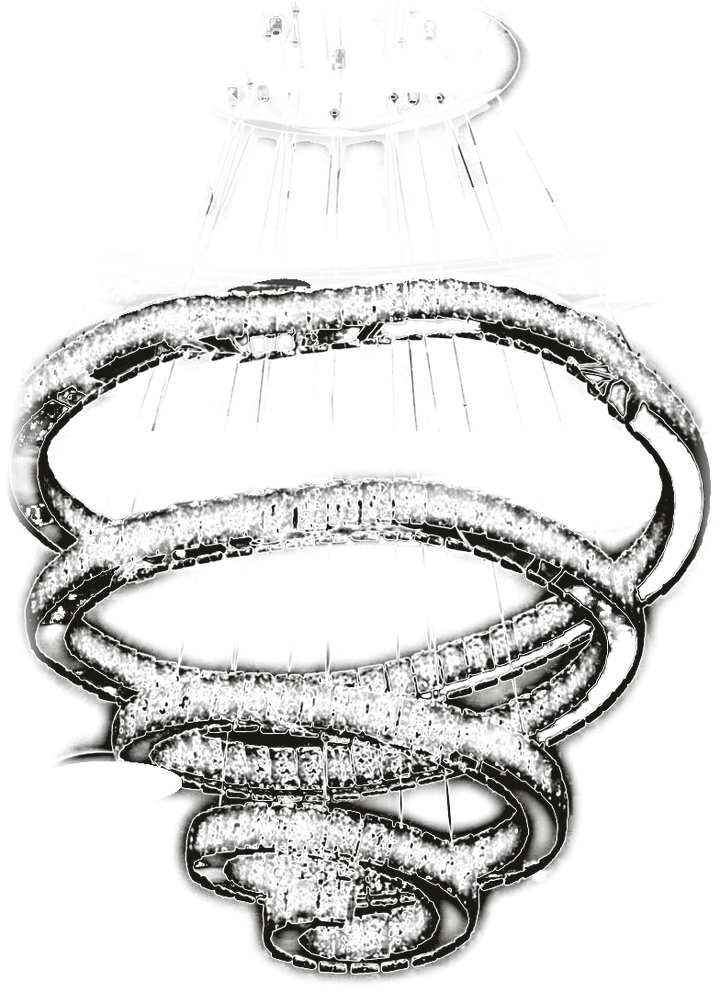
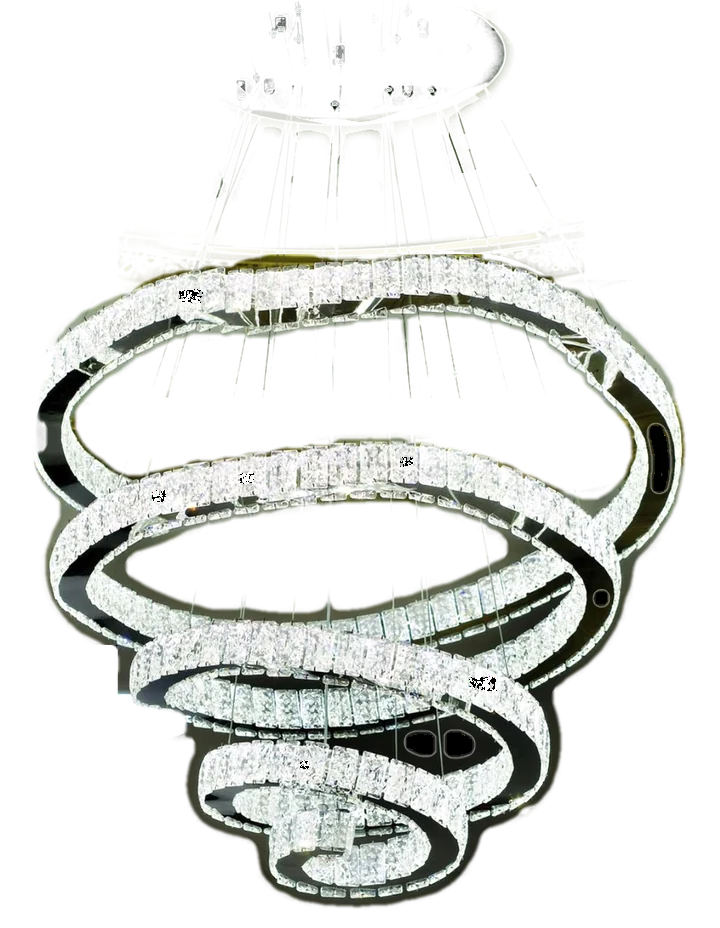
Kronleuchter realistisch: echtes Foto freigestellt, violetter Schein, Raum dezent dahinter

diff --git a/style.css b/style.css
@@ -652,26 +652,37 @@ ul,ol{ list-style:none }
 .cta__row{ display:flex; flex-wrap:wrap; gap:.7rem; margin-top:2.25rem }
 
 /* Kronleuchter — das Stück, das man im Salon zuerst sieht.
-   Aus dem Foto freigestellt (nur die Kristalle, keine Decke).
-   Pendelt langsam an der Aufhängung um die eigene Achse (rotateY),
-   ein Messing-Schimmer läuft über die Kristalle. */
+   Zwei Ebenen aus dem echten Foto:
+   · kron__raum  — die Decke dahinter, violett getönt, fast durchsichtig
+   · kron__licht — der Leuchter selbst, freigestellt, voll deckend,
+                   mit violettem Neon-Schein
+   Pendelt langsam um die eigene Achse, ein Lichtschimmer läuft über
+   die Kristalle. Bei reduzierter Bewegung steht er still. */
 .cta--kron{ display:grid; gap:clamp(2.5rem,5vw,4rem); align-items:center }
-.kron{ margin:0; perspective:1400px; justify-self:center; width:min(70%,280px) }
+.kron{ margin:0; perspective:1400px; justify-self:center; width:min(78%,300px) }
 .kron__dreh{
   position:relative; transform-origin:50% 0;
   animation:kron-dreh 14s ease-in-out infinite alternate;
 }
 .kron__dreh img{ display:block; width:100%; height:auto }
+.kron__raum{ position:absolute; inset:0; opacity:.4 }
+.kron__licht{
+  position:relative;
+  filter:
+    drop-shadow(0 0 10px rgba(122,58,230,.55))
+    drop-shadow(0 0 34px rgba(88,32,160,.35));
+}
 .kron__dreh::after{
   content:""; position:absolute; inset:0; pointer-events:none;
-  background:linear-gradient(100deg, transparent 40%, var(--brass) 50%, transparent 60%) 0 0/300% 100% no-repeat;
+  background:linear-gradient(100deg, transparent 40%, rgba(255,255,255,.7) 48%, rgba(190,150,255,.5) 52%, transparent 60%) 0 0/300% 100% no-repeat;
   -webkit-mask:url(img/kronleuchter.webp) center/100% 100% no-repeat;
           mask:url(img/kronleuchter.webp) center/100% 100% no-repeat;
+  mix-blend-mode:soft-light;
   animation:kron-glanz 9s ease-in-out infinite;
 }
 @keyframes kron-dreh{
-  from{ transform:rotateY(-24deg) rotateZ(-.6deg) }
-  to  { transform:rotateY(24deg)  rotateZ(.6deg) }
+  from{ transform:rotateY(-20deg) rotateZ(-.6deg) }
+  to  { transform:rotateY(20deg)  rotateZ(.6deg) }
 }
 @keyframes kron-glanz{
   0%,50%{ background-position:100% 0 }

diff --git a/index.html b/index.html
@@ -294,10 +294,8 @@ div>
     </div>
     <figure class="kron" aria-hidden="true">
       <div class="kron__dreh">
-        <picture>
-          <source srcset="img/kronleuchter.webp" type="image/webp">
-          <img src="img/kronleuchter.png" alt="" width="720" height="992" loading="lazy" decoding="async">
-        </picture>
+        <img class="kron__raum" src="img/kronleuchter-raum.webp" alt="" width="720" height="928" loading="lazy" decoding="async">
+        <img class="kron__licht" src="img/kronleuchter.webp" alt="" width="720" height="928" loading="lazy" decoding="async">
       </div>
     </figure>
   </div>
